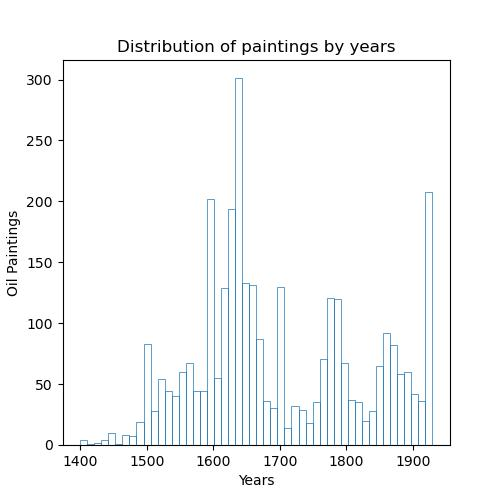
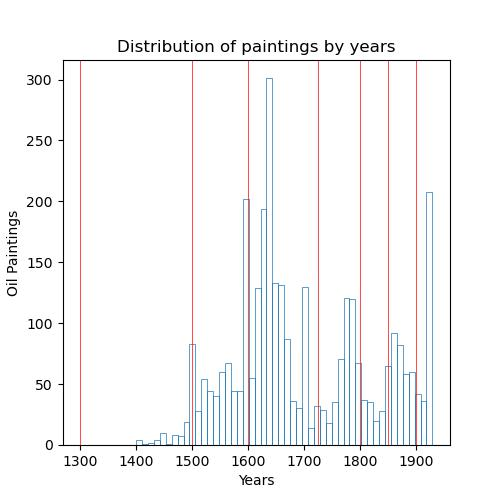
pushed2

Changed region(s): [[0.21, 0.15, 0.87, 0.93], [0.12, 0.87, 0.18, 0.93]]

diff --git a/main.py b/main.py
@@ -3,13 +3,11 @@ from PIL import Image
 import streamlit.components.v1 as components
 import codecs
 import os
-import sql.sql_queries as esecuele
 import color_functions
 import seaborn as sns
 import matplotlib
 import matplotlib.pyplot as plt
-import plotly.express as px
-#import sql.sql_queries 
+import plotly.express as px 
 import pandas as pd
 import numpy as np
 import color_functions
@@ -70,6 +68,15 @@ with museum_study:
     st.header("""Museum study""")
     st.markdown("El Prado Museum has one of the largests collections of Barroque, meaning that most of the pieces of art where done during the XVII century.")
     df=pd.read_csv("datasets/prado_oil.csv")
+    st.markdown("The pieces of art are split into different styles depending on the traces used in the paintings and the year when they were produced:")
+    st.markdown("- Romanesque: XI, XII, XIII")
+    st.markdown("- Gothic: XIII, XIV, XV")
+    st.markdown("- Reinassance: XVI")
+    st.markdown("- Barroque: XVII, XVIII")
+    st.markdown("- Neoclassicism: XVIII, XIX")
+    st.markdown("- Romantiscism: XIX")
+    st.markdown("- Impressionism: XIX")
+    
 
     fig=plt.figure(figsize=(5, 5))
     
@@ -82,6 +89,13 @@ with museum_study:
     ax1.grid(False)
     ax1.set_facecolor((1, 1, 1))
     ax1.set_frame_on(True)
+    plt.axvline(x = 1300, linewidth=0.5, color = 'r', label = 'Romanesque')
+    plt.axvline(x = 1500, linewidth=0.5, color = 'r', label = 'Gothic')
+    plt.axvline(x = 1600, linewidth=0.5, color = 'r', label = 'Reinassance')
+    plt.axvline(x = 1725, linewidth=0.5, color = 'r', label = 'Barroque')
+    plt.axvline(x = 1800, linewidth=0.5, color = 'r', label = 'Neoclassicism')
+    plt.axvline(x = 1850, linewidth=0.5, color = 'r', label = 'Romanticism')
+    plt.axvline(x = 1900, linewidth=0.5, color = 'r', label = 'Impressionism')
     
     fig.savefig("images/graph1.jpg")
     graph1 =  Image.open("images/graph1.jpg")
